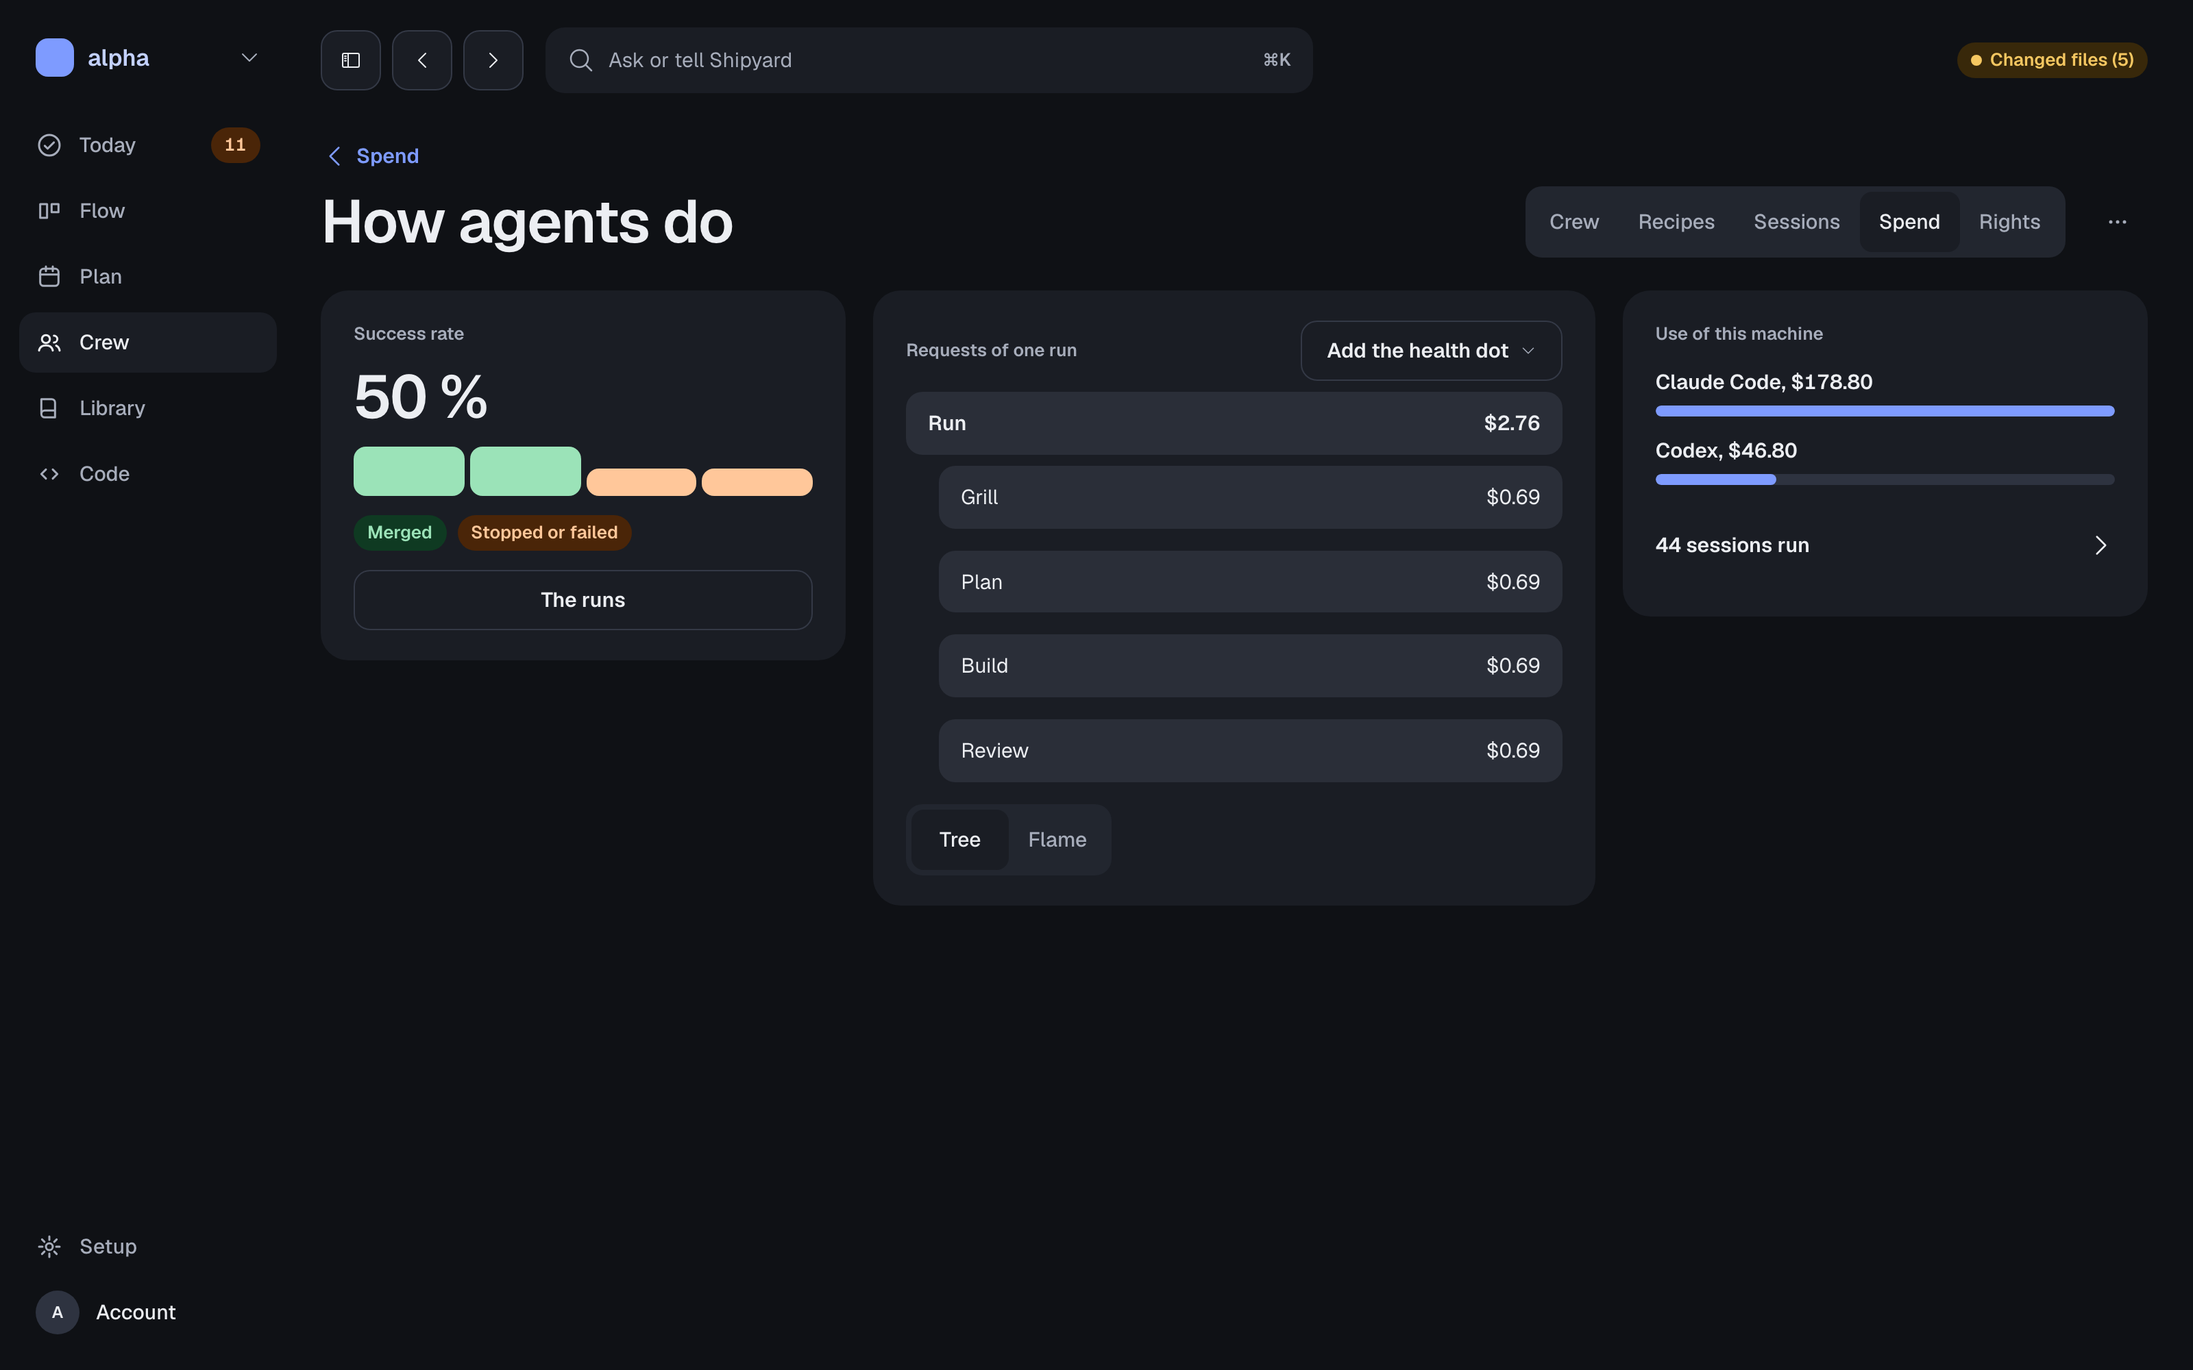
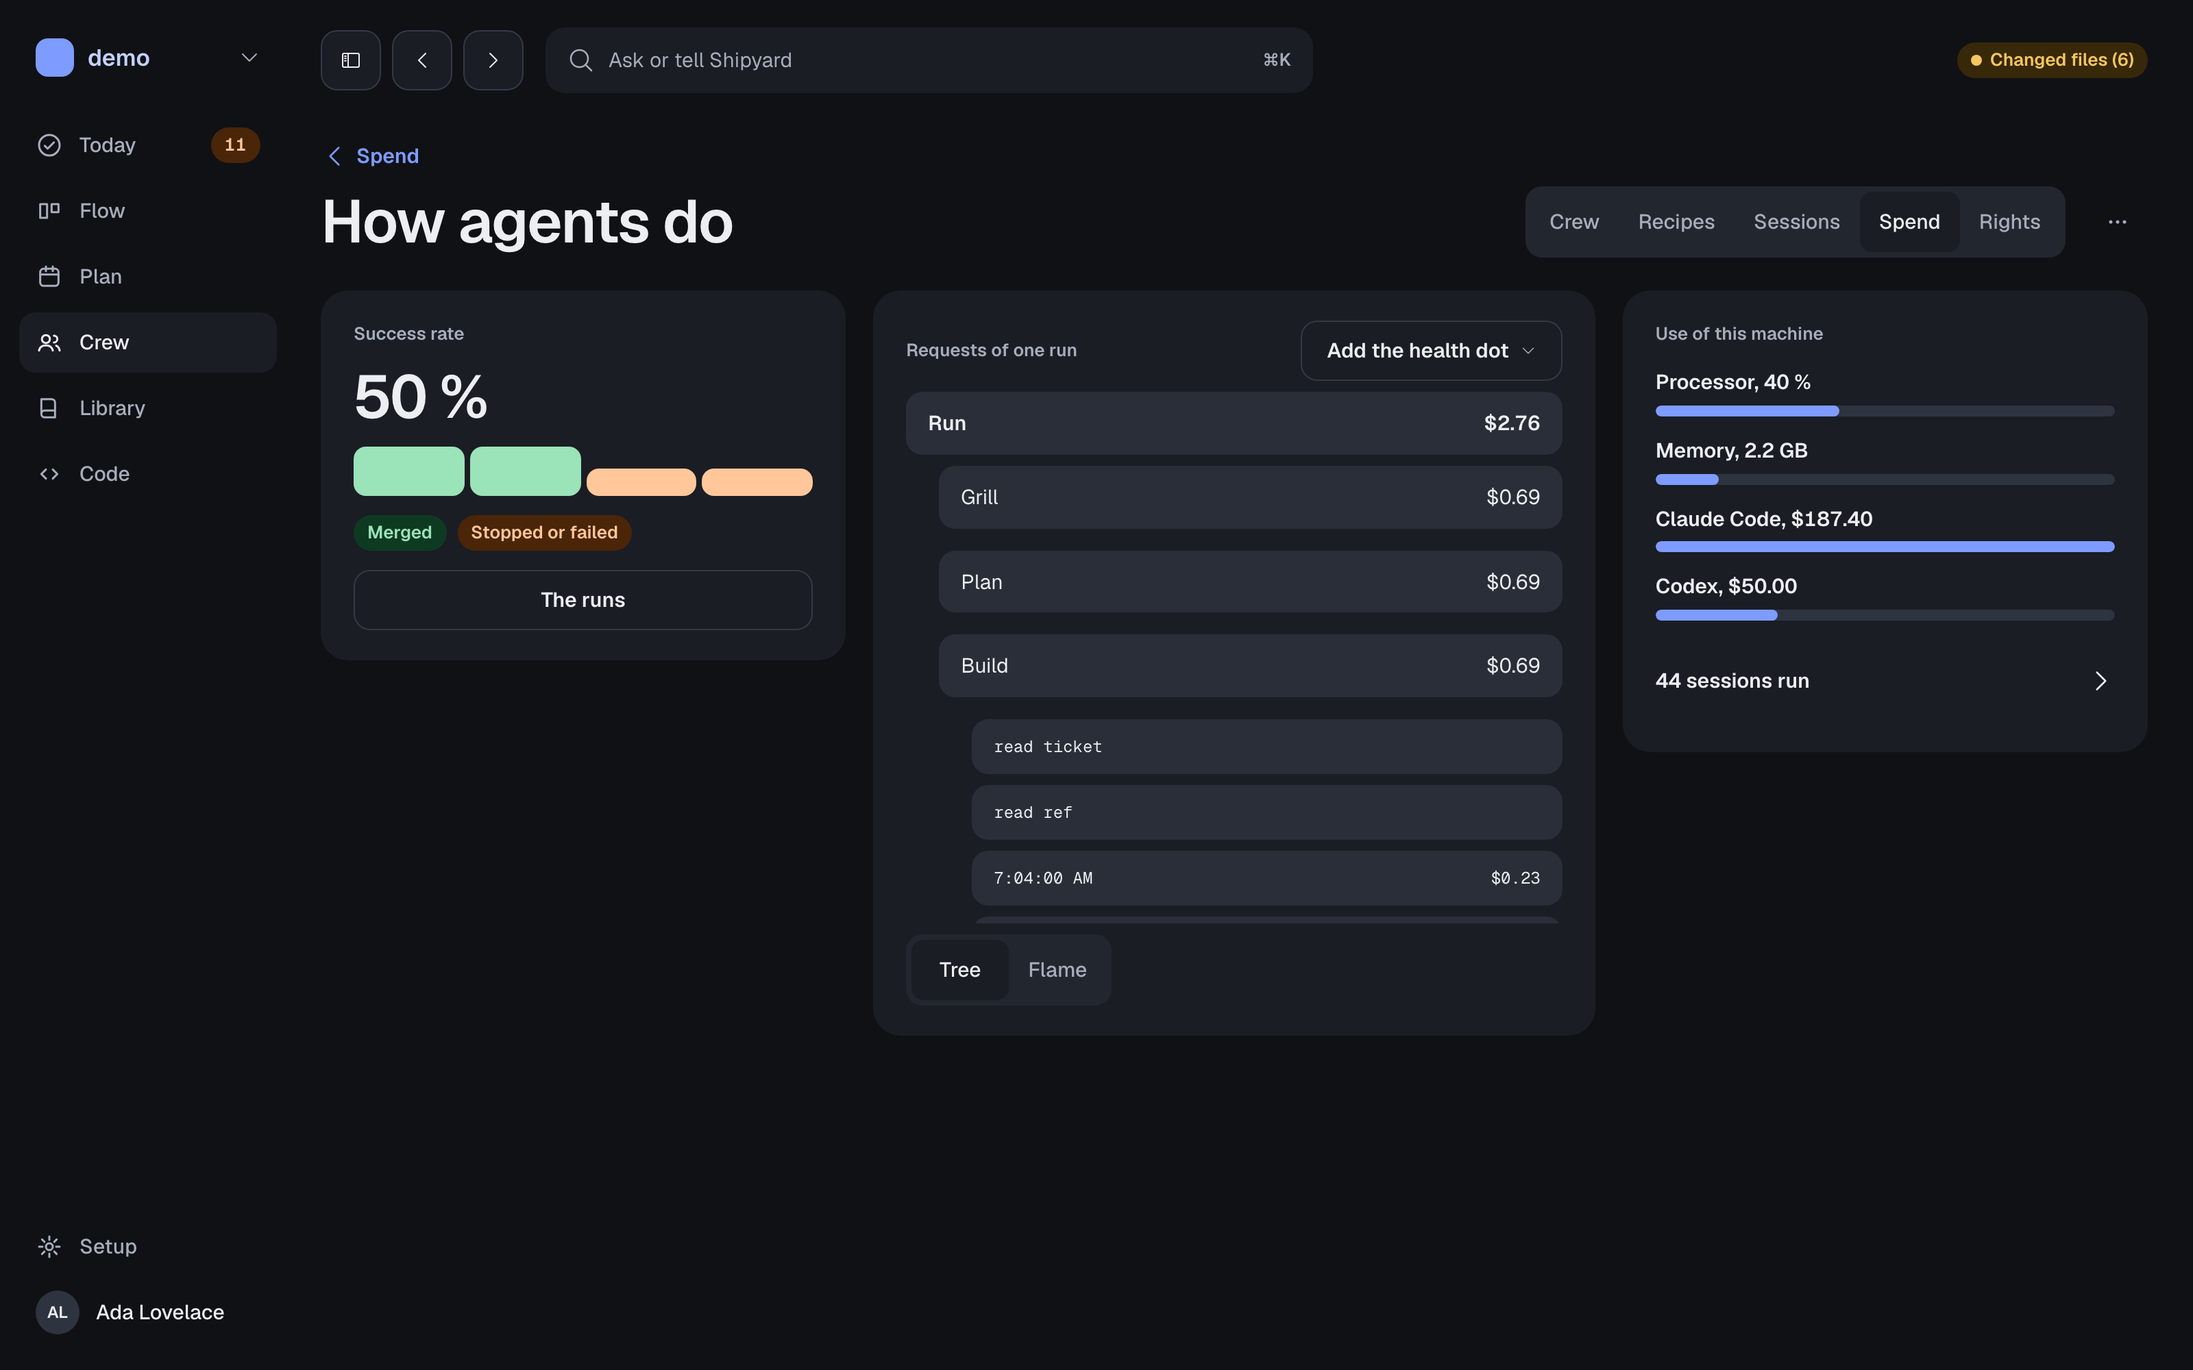
feat(shell): finish shell-setup-rights with the close list, the permissions card gate, pictures and progress record
The permissions card waits for the first project and a browser build can start with Later on, so the e2e and persona runs are not blocked. The question of a project close lists the tickets of the runs and fits on one row. The pictures, the screens and the progress record are updated, and the acceptance boxes are ticked.

diff --git a/scripts/screenshots.ts b/scripts/screenshots.ts
@@ -74,10 +74,15 @@ const openProjects = async (p: Page) => {
 	await p.getByRole("menuitem", { name: "Projects" }).click();
 	await p.getByRole("heading", { level: 1, name: "Projects" }).waitFor();
 };
-const openProject = async (p: Page) => {
+const openProject = async (p: Page, keepCard = false) => {
 	await p.goto("/home/today");
 	await p.getByRole("button", { name: "Continue" }).click();
 	await p.getByRole("button", { name: "Open a local folder" }).click();
+	// The card of the missing permissions comes with the first project: Later hides it, but for its own scene.
+	await p.getByRole("dialog", { name: /^Shipyard needs/ }).waitFor();
+	if (keepCard) return;
+	await p.getByRole("button", { name: "Later" }).click();
+	await p.getByRole("dialog").waitFor({ state: "detached" });
 	await p.getByRole("heading", { level: 1, name: /^(Today|\d+ things? needs? you)$/ }).waitFor();
 };
 
@@ -355,7 +360,18 @@ const scenes: Scene[] = [
 			await p.getByRole("region", { name: "What this change touches" }).waitFor();
 		},
 	},
+	// The card of the missing permissions: the one scene that keeps it open.
+	{ name: "permissions-moment", light: true, run: (p) => p.getByRole("dialog").waitFor() },
 	{ name: "projects", run: openProjects },
+	// Close the open project while agents work: the question with Cancel, Stop them and close, and Keep them working.
+	{
+		name: "close-guard",
+		run: async (p) => {
+			await openProjects(p);
+			await p.getByRole("button", { name: "Close project" }).click();
+			await p.getByRole("dialog").waitFor();
+		},
+	},
 	{
 		name: "themes",
 		run: async (p) => {
@@ -405,7 +421,6 @@ const scenes: Scene[] = [
 		"crew-sessions-ended": "/crew/sessions?page=ended",
 		"crew-rights-team": "/crew/rights?page=team",
 		"crew-rights-levels": "/crew/rights?page=levels",
-		"crew-spend-how": "/crew/spend?page=how",
 		"crew-spend-budgets": "/crew/spend?page=budgets",
 		"crew-spend-usage": "/crew/spend?page=usage",
 		"activity-panel": "/today/activity",
@@ -433,6 +448,14 @@ const scenes: Scene[] = [
 		"code-history": "/code/history",
 		"code-branches": "/code/branches",
 	}).map(([name, path]): Scene => ({ name, run: (p) => go(p, path) })),
+	// How agents do, with the tool calls of the Build step open.
+	{
+		name: "crew-spend-how",
+		run: async (p) => {
+			await go(p, "/crew/spend?page=how");
+			await p.locator("summary").filter({ hasText: "Build" }).click();
+		},
+	},
 	// The mock has a spec on add-auth and a conversation on the pull request of the empty token.
 	{ name: "feature-brief", run: (p) => openFeature(p, /add-auth/, "Brief") },
 	// shortcut: no feature of the mock cites a design, so the picture shows the empty state.
@@ -549,7 +572,7 @@ for (const s of scenes) {
 		colorScheme: s.light || s.fresh ? "light" : "dark",
 	});
 	const page = await ctx.newPage();
-	if (!s.fresh) await openProject(page);
+	if (!s.fresh) await openProject(page, s.name === "permissions-moment");
 	if (!s.light && !s.fresh) {
 		// Light is the default theme: a dark scene picks Dark from the palette.
 		await page.keyboard.press("ControlOrMeta+k");

diff --git a/e2e/projects.spec.ts b/e2e/projects.spec.ts
@@ -41,6 +41,8 @@ test("closes a project, opens it again from the recent list and switches between
 		await expect(page.getByRole("menu")).toBeHidden();
 	};
 	await pick("menuitem", "Close project");
+	// Agents work in the demo project: closing asks first (`spec:shell-setup-rights#REQ-012`).
+	await page.getByRole("button", { name: "Keep them working" }).click();
 	// No project is open: the bare No project card has no rail and no project switch.
 	await expect(switcher).toHaveCount(0);
 	await page.getByRole("button", { name: "Open a project" }).click();
@@ -78,6 +80,13 @@ test("shows the open project on the Projects page and closes it there", async ({
 	).toBeVisible();
 	await expect(page.getByText("Drop a folder here")).toBeVisible();
 	await open.getByRole("button", { name: "Close project" }).click();
+	// Cancel keeps the project open.
+	const ask = page.getByRole("dialog", { name: /agents? still works?/i });
+	await ask.getByRole("button", { name: "Cancel" }).click();
+	await expect(ask).toBeHidden();
+	await expect(open).toBeVisible();
+	await open.getByRole("button", { name: "Close project" }).click();
+	await page.getByRole("button", { name: "Keep them working" }).click();
 	await expect(page.getByRole("heading", { level: 1, name: "No project is open" })).toBeVisible();
 });
 

diff --git a/src/features/onboarding/permissions-moment.tsx b/src/features/onboarding/permissions-moment.tsx
@@ -2,6 +2,7 @@ import { useQueryClient } from "@tanstack/react-query";
 import { format, useI18n } from "@/lib/i18n";
 import { commands, type OsPermission, unwrap } from "@/lib/ipc";
 import { logError } from "@/lib/log";
+import { useActiveProject } from "@/lib/projects";
 import { laterPermissions, usePermissionsLater } from "@/lib/shell/permissions-later";
 import { Button } from "@/ui/atoms/button";
 import { Dialog } from "@/ui/organisms/dialog";
@@ -20,6 +21,8 @@ export function PermissionsMoment() {
 	const qc = useQueryClient();
 	const hidden = usePermissionsLater();
 	const tour = useTourOpen();
+	// The first run (role, first project) comes first, like the tour.
+	const hasProject = Boolean(useActiveProject().data);
 	const list = usePermissions().data ?? [];
 	const missing = list.filter((p) => p.state === "notAsked" || p.state === "off");
 	const asked = (p: OsPermission) => p.state === "notAsked";
@@ -35,7 +38,7 @@ export function PermissionsMoment() {
 	};
 	return (
 		<Dialog
-			open={!hidden && !tour && missing.length > 0}
+			open={hasProject && !hidden && !tour && missing.length > 0}
 			onOpenChange={(open) => {
 				if (!open) laterPermissions();
 			}}

diff --git a/src/features/shell/project-close.tsx b/src/features/shell/project-close.tsx
@@ -9,6 +9,7 @@ export function ProjectCloseAsk() {
 	const { t } = useI18n();
 	const m = t.shellFn.close;
 	const ask = useProjectCloseAsk();
+	const title = ask?.count === 1 ? m.titleOne : format(m.title, { count: ask?.count ?? 0 });
 	// The shell goes away with a question open: the close is cancelled, not left hanging.
 	useEffect(() => dropProjectCloseAsk, []);
 	return (
@@ -17,8 +18,9 @@ export function ProjectCloseAsk() {
 			onOpenChange={(open) => {
 				if (!open) ask?.answer("cancel");
 			}}
-			title={ask?.count === 1 ? m.titleOne : format(m.title, { count: ask?.count ?? 0 })}
+			title={title}
 			closeLabel={m.cancel}
+			wide
 			actions={
 				<>
 					<Button className="min-h-control" onClick={() => ask?.answer("stop")}>
@@ -30,7 +32,13 @@ export function ProjectCloseAsk() {
 				</>
 			}
 		>
-			{null}
+			<ul aria-label={title} className="divide-y divide-n-6 rounded-lg border bg-surface-2">
+				{ask?.keys.slice(0, 5).map((key) => (
+					<li key={key} className="px-4 py-3 text-ui font-semibold">
+						{key}
+					</li>
+				))}
+			</ul>
 		</Dialog>
 	);
 }

diff --git a/src/lib/projects/close-ask.ts b/src/lib/projects/close-ask.ts
@@ -1,7 +1,7 @@
 import { useSyncExternalStore } from "react";
 
 export type CloseAnswer = "cancel" | "stop" | "keep";
-type Ask = { count: number; answer: (a: CloseAnswer) => void };
+type Ask = { count: number; keys: string[]; answer: (a: CloseAnswer) => void };
 
 let current: Ask | null = null;
 const listeners = new Set<() => void>();
@@ -11,11 +11,12 @@ const set = (a: Ask | null) => {
 };
 
 /** The question of a project close while agents work (`spec:shell-setup-rights#REQ-012`). One question shows at a time. */
-export function askProjectClose(count: number): Promise<CloseAnswer> {
+export function askProjectClose(keys: string[]): Promise<CloseAnswer> {
 	return new Promise((resolve) => {
 		current?.answer("cancel");
 		set({
-			count,
+			count: keys.length,
+			keys,
 			answer: (a) => {
 				if (current?.answer === ask.answer) set(null);
 				resolve(a);

diff --git a/src/lib/shell/permissions-later.ts b/src/lib/shell/permissions-later.ts
@@ -1,7 +1,11 @@
 import { useSyncExternalStore } from "react";
 
-/** Later hides the card of the missing permissions until the app starts again. */
-let later = false;
+/**
+ * Later hides the card of the missing permissions until the app starts again. A browser build made
+ * with `VITE_PERMISSIONS_LATER=1` (the e2e and persona runs) starts hidden: those runs drive the
+ * page and a modal would block them.
+ */
+let later = import.meta.env.VITE_PERMISSIONS_LATER === "1";
 const listeners = new Set<() => void>();
 const set = (next: boolean) => {
 	later = next;

diff --git a/src/features/onboarding/permissions-moment.test.tsx b/src/features/onboarding/permissions-moment.test.tsx
@@ -58,6 +58,13 @@ describe("The permissions moment", () => {
 		await idle(router);
 	});
 
+	it("waits for the first project: the first run comes first", async () => {
+		const router = mountApp("/home/today");
+		await screen.findByRole("heading", { name: "What is your job?" });
+		expect(screen.queryByRole("dialog")).toBeNull();
+		await idle(router);
+	});
+
 	it("stays away when each permission is on", async () => {
 		for (const p of mockState().permissions) p.state = "on";
 		await unwrap(commands.projectsOpen("/mock/alpha", false));

diff --git a/src/lib/projects/index.ts b/src/lib/projects/index.ts
@@ -180,7 +180,7 @@ export function useProjectActions() {
 	 */
 	const close = useCallback(async () => {
 		const runs = await unwrap(commands.projectsCloseState());
-		const answer = runs.length ? await askProjectClose(runs.length) : "keep";
+		const answer = runs.length ? await askProjectClose(runs.map((r) => r.key)) : "keep";
 		if (answer === "cancel") return;
 		await unwrap(answer === "stop" ? commands.projectsCloseStop() : commands.projectsClose());
 		router.history.push("/");

diff --git a/playwright.config.ts b/playwright.config.ts
@@ -5,7 +5,8 @@ export default defineConfig({
 	use: { baseURL: "http://localhost:4174" },
 	projects: [{ name: "chromium", use: { ...devices["Desktop Chrome"] } }],
 	webServer: {
-		command: "VITE_MOCK_DEMO=0 pnpm build && pnpm preview --port 4174 --strictPort",
+		command:
+			"VITE_MOCK_DEMO=0 VITE_PERMISSIONS_LATER=1 pnpm build && pnpm preview --port 4174 --strictPort",
 		url: "http://localhost:4174",
 		reuseExistingServer: !process.env.CI,
 		timeout: 120_000,

diff --git a/playwright.personas.config.ts b/playwright.personas.config.ts
@@ -16,7 +16,7 @@ export default defineConfig({
 		},
 	],
 	webServer: {
-		command: `pnpm exec vite build --outDir ${DIST} --emptyOutDir && pnpm exec vite preview --outDir ${DIST} --port 4177 --strictPort`,
+		command: `VITE_PERMISSIONS_LATER=1 pnpm exec vite build --outDir ${DIST} --emptyOutDir && pnpm exec vite preview --outDir ${DIST} --port 4177 --strictPort`,
 		url: "http://localhost:4177",
 		reuseExistingServer: !process.env.CI,
 		timeout: 300_000,

diff --git a/src/lib/ipc/mock-factory.ts b/src/lib/ipc/mock-factory.ts
@@ -784,7 +784,7 @@ const unit = (id: string, state: StepState): UnitView_Serialize => ({
 	id,
 	state,
 	runner: state === "pending" ? "" : "claude",
-	session: state === "pending" ? null : `sess-${id}`,
+	session: state === "pending" ? null : `sess-${id.replaceAll("/", "-")}`,
 	dir: state === "pending" ? "" : `/work/${id}`,
 	started: T0 / 1000,
 	last: T0 / 1000 + 60,

diff --git a/.agents/progress/fn-shell-setup-rights.md b/.agents/progress/fn-shell-setup-rights.md
@@ -1,0 +1,48 @@
+# fn-shell-setup-rights
+
+Capability `shell-setup-rights` of the change `add-redesign-functions`. Branch `fn/shell-setup-rights`, base `45288ede`.
+
+## Built
+
+All 12 requirements (F01, F20, F21, F22, F25, F40 to F46) have their backend, view, mock and tests. Tasks T001 to T028 are ticked in `specs/shell-setup-rights/tasks.md`.
+
+| Control | Where |
+| --- | --- |
+| F01 Sign out | `src/features/shell/sign-out.ts`, `crates/shipyard-app/src/connections.rs` (needs a click; keeps AI tool sign-ins) |
+| F20 Take control, live output | `src/features/crew/take-control.ts`, `crates/shipyard-app/src/machine.rs`, `crates/shipyard-agents/src/machine.rs` |
+| F21 Processor, Memory, tool calls | `src/features/crew/spend-how.tsx`, `crates/shipyard-app/src/request_tree.rs` (reads the `tool_call` events of the run log) |
+| F22 Plan right | `crates/shipyard-core/src/rights.rs`, gates in `crates/shipyard-app/src/work.rs` |
+| F25 Fill from my work | `crates/shipyard-app/src/work/fill.rs`, `src/features/plan/time.tsx` |
+| F40 Model for each role | `crates/shipyard-app/src/role_model.rs`, `src/features/crew/role-card.tsx`, `src/features/settings/agents-rules.tsx` |
+| F41 Budget notice, Sound, Release channel | `src/features/shell/budget-notice.ts`, `crates/shipyard-app/src/shell/` |
+| F42 Data folder, Portable mode | `crates/shipyard-app/src/window.rs`, `src/features/settings/look-rows.tsx` |
+| F43 Attach a file | `src/features/projects/health-feedback.tsx`, `crates/shipyard-app/src/feedback.rs` |
+| F44 Permissions card | `src/features/onboarding/permissions-moment.tsx` |
+| F45 Hidden places | `crates/shipyard-core/src/rights.rs` (`hide` cell), `src/features/shell/places.ts` |
+| F46 Ask before a project closes | `src/features/shell/project-close.tsx`, `crates/shipyard-app/src/close_guard.rs` |
+
+## Fixed in the finish pass
+
+- The permissions card blocked the first run and every e2e and persona run. It now waits for the first project, like the tour. A browser build made with `VITE_PERMISSIONS_LATER=1` starts with Later on: `playwright.config.ts` and `playwright.personas.config.ts` set it.
+- The close question now lists the tickets of the runs and uses the wide dialog, so the three buttons fit on one row.
+- `e2e/projects.spec.ts`: the two tests that close a project answer the new question; one also checks Cancel.
+- The mock session ids have no `/`, so Take control shows for the sessions of the demo.
+- Screens: titles of 12 screens in `docs/designs/screens.json`, the new screen SCR-185 (permissions card), the picture of SCR-096. `scripts/screenshots.ts` has the scenes `close-guard` and `permissions-moment`, and dismisses the card for the other scenes.
+
+## Checks
+
+See the final report of the session for the commands and results. The Rust lib test `a_link_to_a_connection_that_is_gone_is_replaced_by_the_only_tracker` is skipped: it reads the real keychain (older than this change).
+
+## Open items
+
+- The permissions card shows the label "Documents, Desktop and Downloads", the design says "Files of your projects". The label is shared with the tour and Setup and is used by e2e tests.
+- The card offers no request for a permission that is off, only Open the system settings.
+- The tool bars (Claude Code, Codex spend) stay on How agents do; the design shows only Processor, Memory and sessions.
+- Moving the data folder copies the files while the app runs. The old folder stays (no delete).
+- The guide text in French, German and Spanish is a translation by the build agent: have a native reader check it.
+
+## Seams for the lead
+
+- Budget notice: `warn_at()` in `crates/shipyard-app/src/shell/budget.rs` returns `DEFAULT_WARN_AT` (0.8) and takes `_s: &AppState`. After the join with `runs-recipes`, change only the body of `warn_at`. The UI reads `budgetStatus` in `src/features/shell/budget-notice.ts`. The Me row text is not tied to a Warn at setting yet.
+- Shared files touched: `src/lib/ipc/mock*.ts`, `crates/shipyard-app/src/lib.rs`, `src/lib/ipc/bindings.ts` (generated), `src/lib/i18n/` (`shell-fn.ts` for en, de, es; keys in `en.ts`, `fr.ts`), `src/test/setup.ts`, `src/ui/organisms/dialog.tsx` (prop `closeLabel`), `src/features/shell/app-shell.tsx`, `CHANGELOG.md` and `CHANGELOG.fr.md` (3 bullets each), `docs/designs/screens.json`, `docs/guide/`, `scripts/screenshots.ts`, `playwright.config.ts`, `playwright.personas.config.ts`.
+- Not touched: `crates/shipyard-app/src/work/join.rs`, `src/features/work/team-rights.tsx`.
